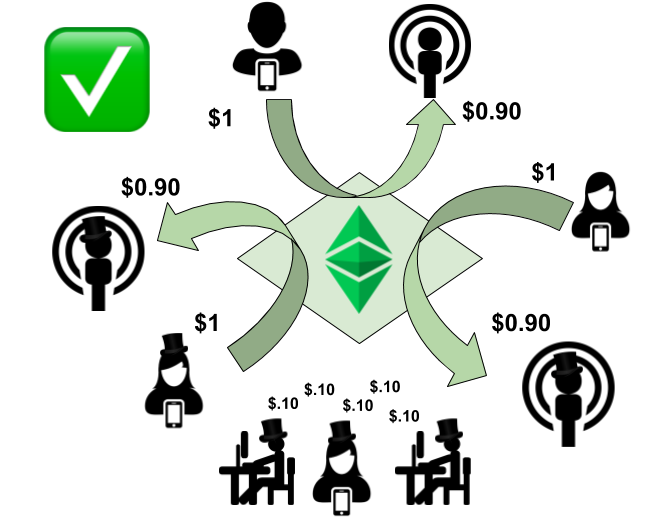
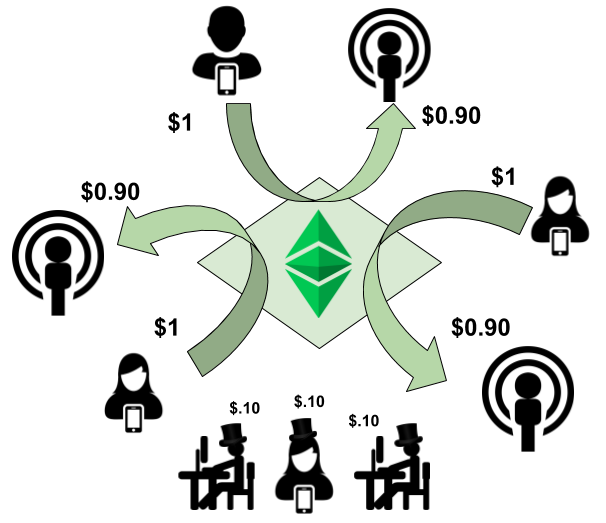
new pic

Changed region(s): [[0.0, 0.0, 0.9802, 0.8889], [0.297, 0.705, 0.7426, 1.0], [0.0594, 0.0307, 0.2376, 0.2759]]

diff --git a/index.html b/index.html
@@ -130,7 +130,7 @@
                             <hr class="line">
                             <h3 style="margin-top:10px;"> Imagine a world where paying for goods and services grows your savings rather than
                                 middlemen's. </h3>
-                            <img class="logo" src="/img/gatekeeper.png" alt="Phoenix" style="max-width: 75%">
+                            <img class="logo" src="/img/bad.png" alt="Phoenix" style="max-width: 75%">
                         </div>
                         <div class="column">
                             <div class="icon-main">
@@ -138,7 +138,7 @@
                             </div>
                             <h2 class="feature-title">Income.</h2>
                             <hr class="line">
-                            <h3 style="margin-top:10px;"> Whenever anybody pays or tips with P3C, the entire global network proportionally splits a <i>10%</i> dividend.</h3>
+                            <h3 style="margin-top:10px;"> Whenever anybody buys or sells P3C, the entire global network proportionally splits a <i>10%</i> dividend.</h3>
                             <img class="logo" src="/img/good.png" alt="Phoenix">
                         </div>
                         <div class="column">
@@ -147,7 +147,7 @@
                             </div>
                             <h2 class="feature-title">Forever.</h2>
                             <hr class="line">
-                            <h3 style="margin-top:10px;">Each P3C minted increases the next one's price. It's open 24/7 and available anywhere. No hidden fees!</h3>
+                            <h3 style="margin-top:10px;">Each P3C minted increases the next one's price. It's open 24/7 and available globally. No hidden fees!</h3>
                             <img class="logo mobile only" style="width: 100%" src="/img/World.png" alt="Phoenix">
                             <img class="logo custom-computer only" style="width: 100%" src="/img/World-Small.png" alt="Phoenix">
 

diff --git a/pure.html b/pure.html
@@ -250,14 +250,14 @@
                     <a id="rainMaker" class="ui left labeled icon large fluid white button"
                         style="margin-bottom:10px;">
                         <i class="left chart line icon"></i>
-                        Activate RainMaker <span class="ui green text small eleven">|  <span id="rainMakerTokens"></span> P3C / Divs: <span id="rainMakerDividends"></span> ETC</span>
+                        Call RainMaker <span class="ui green text small eleven">|  <span id="rainMakerTokens"></span> P3C / Divs: <span id="rainMakerDividends"></span> ETC</span>
                     </a>
                 </div>
                 <div style="text-align: center">
                     <a id="distribute" class="ui left labeled icon large fluid white button"
                         style="margin-bottom:10px;">
                         <i class="left sitemap icon"></i>
-                        Activate Divies <span class="ui green text small eleven">|  <span id="diviesBalance"></span> ETC</span> 
+                        Call Divies <span class="ui green text small eleven">|  <span id="diviesBalance"></span> ETC</span> 
                     </a>
                 </div>
             </div>
